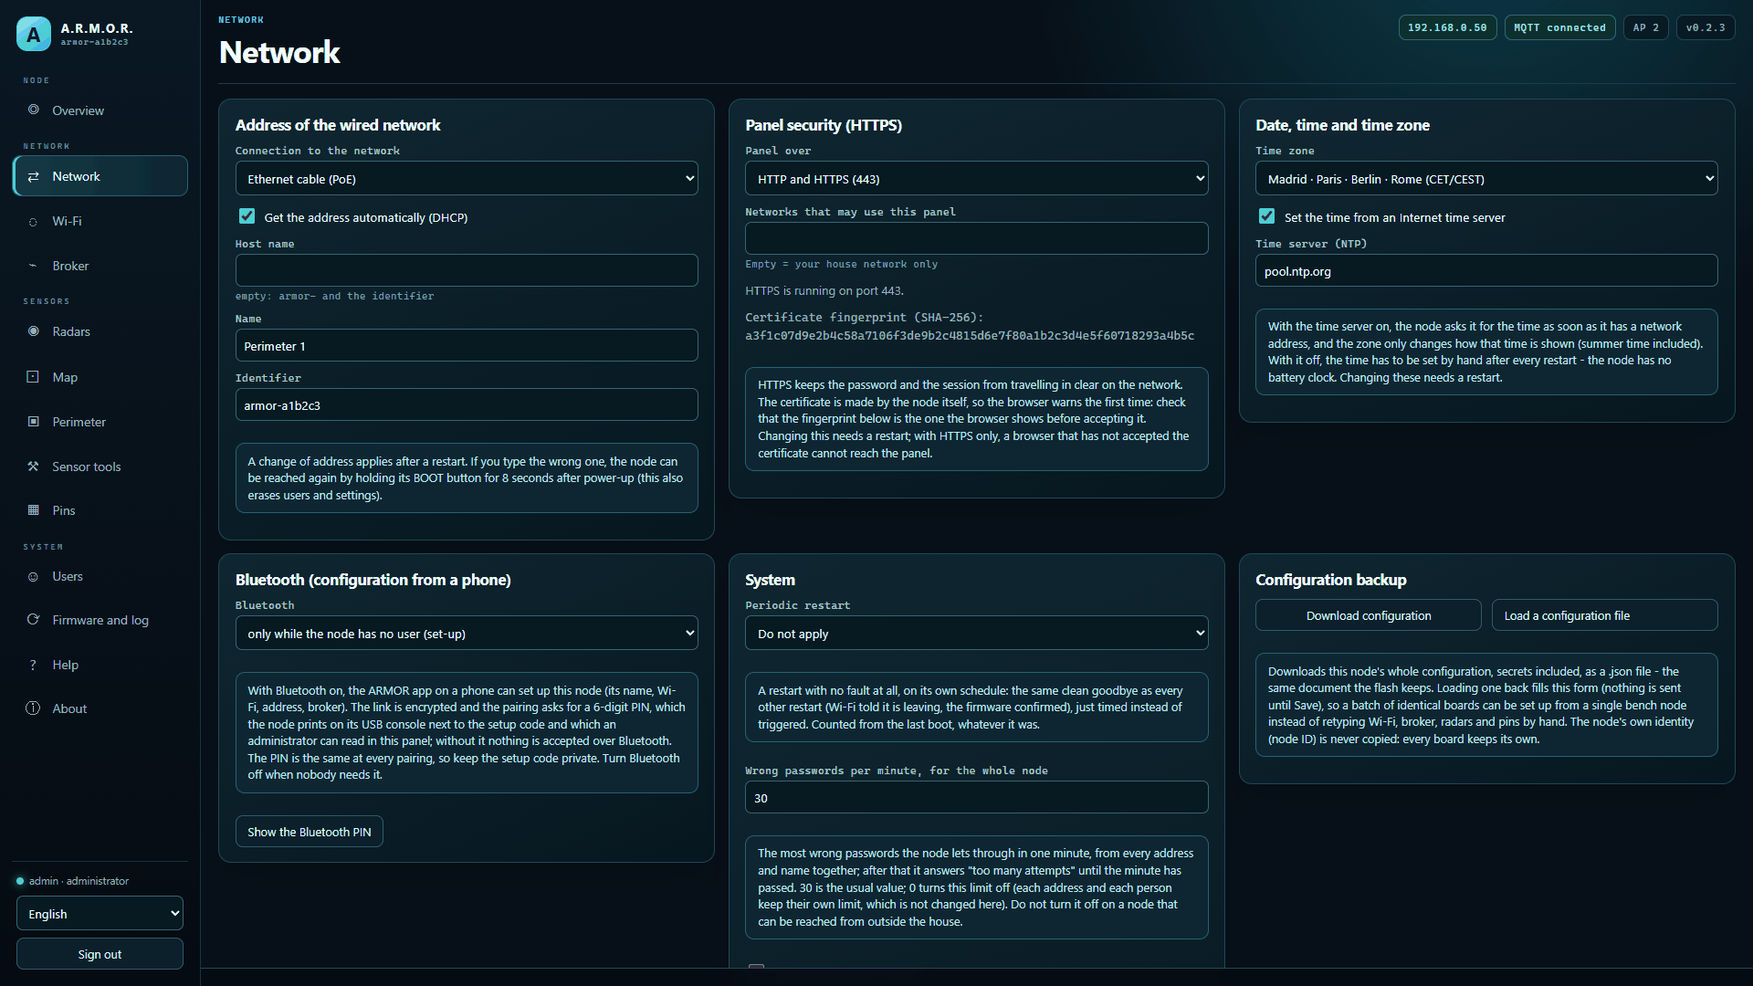
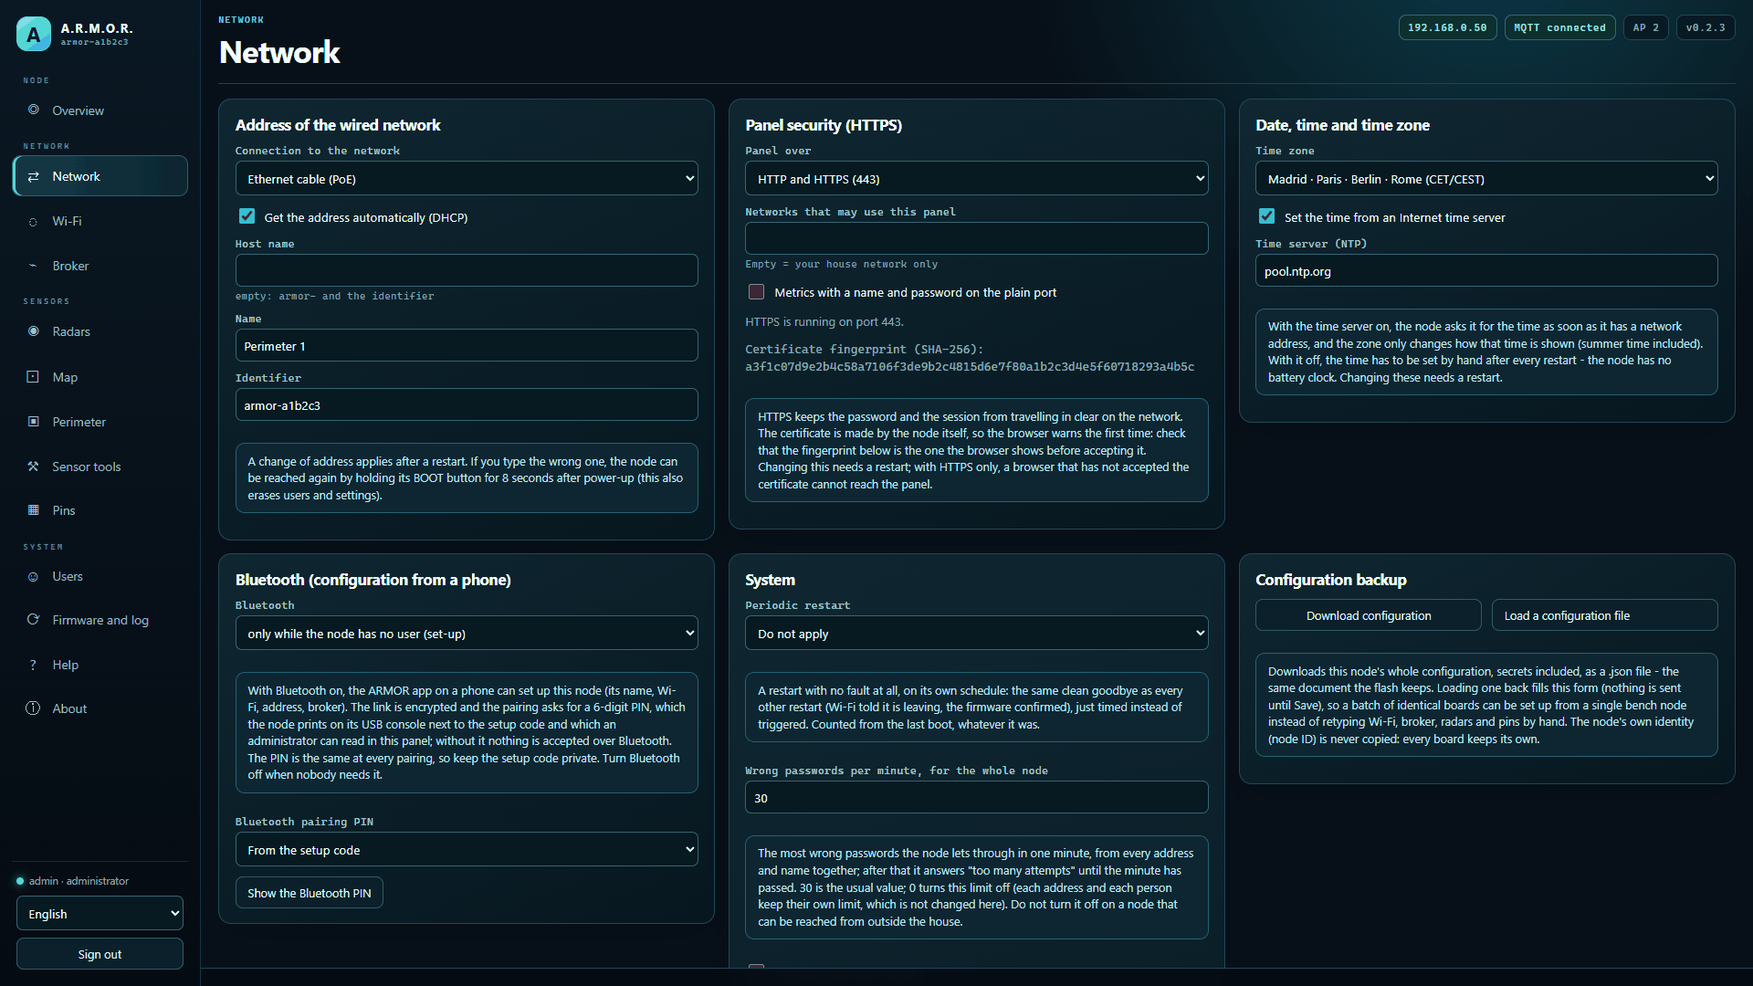
Release 0.8.1.4 (#48)
* Release 0.8.1.4

* Fix the web panel texts that stopped the panel script and retake the README screenshots

Changed region(s): [[0.4062, 0.275, 0.6875, 0.5194], [0.125, 0.825, 0.2188, 0.9167], [0.0, 0.0, 0.0312, 0.0306]]

diff --git a/panel/text.js b/panel/text.js
@@ -900,7 +900,7 @@ const L = {
   setupApPassword: ["Wi-Fi password of the setup network", "Contraseña Wi-Fi de la red de puesta en marcha", "WLAN-Passwort des Einrichtungsnetzes", "Mot de passe Wi-Fi du réseau de mise en service", "Password Wi-Fi della rete di messa in servizio", "セットアップネットワークの Wi-Fi パスワード", "设置网络的 Wi-Fi 密码", "Palavra-passe Wi-Fi da rede de configuração"],
   tip_setupApPassword: ["Password (8 to 63 characters) of the access point a node opens while it has no user. Empty: the setup code on the label is the password, as always. With its own password, the label's code no longer opens that Wi-Fi.", "Contraseña (de 8 a 63 caracteres) del punto de acceso que el nodo abre mientras no tiene usuario. Vacía: la contraseña es el código de la etiqueta, como siempre. Con una propia, el código de la etiqueta ya no abre esa Wi-Fi.", "Passwort (8 bis 63 Zeichen) des Zugangspunkts, den der Knoten öffnet, solange er keinen Benutzer hat. Leer: das Passwort ist wie immer der Einrichtungscode auf dem Etikett. Mit einem eigenen Passwort öffnet der Code des Etiketts dieses WLAN nicht mehr.", "Mot de passe (8 à 63 caractères) du point d'accès que le nœud ouvre tant qu'il n'a pas d'utilisateur. Vide : le mot de passe est le code de l'étiquette, comme toujours. Avec un mot de passe propre, le code de l'étiquette n'ouvre plus ce Wi-Fi.", "Password (da 8 a 63 caratteri) del punto di accesso che il nodo apre finché non ha utenti. Vuota: la password è il codice dell'etichetta, come sempre. Con una password propria, il codice dell'etichetta non apre più quel Wi-Fi.", "ユーザーがいない間にノードが開くアクセスポイントのパスワード(8~63文字)。空欄の場合は従来どおりラベルのセットアップコードがパスワードです。独自のパスワードを設定すると、ラベルのコードではこの Wi-Fi に接続できなくなります。", "节点在没有用户时开启的接入点的密码(8 到 63 个字符)。留空:密码仍是标签上的设置码。设置了专用密码后,标签上的码将不再能连接该 Wi-Fi。", "Palavra-passe (8 a 63 carateres) do ponto de acesso que o nó abre enquanto não tem utilizador. Vazia: a palavra-passe é o código da etiqueta, como sempre. Com uma própria, o código da etiqueta deixa de abrir essa Wi-Fi."],
   otaInvalidate: ["Erase a refused firmware", "Borrar un firmware rechazado", "Abgelehnte Firmware löschen", "Effacer un firmware refusé", "Cancellare un firmware rifiutato", "拒否されたファームウェアを消去する", "清除被拒绝的固件", "Apagar um firmware recusado"],
-  tip_otaInvalidate: ["When a downloaded firmware is refused (wrong project or version, not newer, bad signature), the slot it was written to is erased so it cannot be started by a later fault. The running firmware is never touched. Off by default.", "Cuando se rechaza un firmware descargado (proyecto o versión equivocados, no más nuevo, firma mala), se borra la ranura donde se escribió para que un fallo posterior no pueda arrancarlo. El firmware en marcha no se toca nunca. Desactivado por defecto.", "Wird eine heruntergeladene Firmware abgelehnt (falsches Projekt oder falsche Version, nicht neuer, ungültige Signatur), wird der Slot, in den sie geschrieben wurde, gelöscht, damit ein späterer Fehler sie nicht starten kann. Die laufende Firmware wird nie angetastet. Standardmäßig aus.", "Quand un firmware téléchargé est refusé (mauvais projet ou version, pas plus récent, signature invalide), l'emplacement où il a été écrit est effacé pour qu'une panne ultérieure ne puisse pas le démarrer. Le firmware en cours n'est jamais touché. Désactivé par défaut.", "Quando un firmware scaricato viene rifiutato (progetto o versione sbagliati, non più recente, firma non valida), lo slot in cui è stato scritto viene cancellato, così un guasto successivo non può avviarlo. Il firmware in esecuzione non viene mai toccato. Disattivato per impostazione predefinita.", "ダウンロードしたファームウェアが拒否された場合(プロジェクトやバージョンの不一致、より新しくない、署名が不正)、書き込まれたスロットを消去し、後の障害で起動されないようにします。実行中のファームウェアには一切触れません。既定ではオフ。", "下载的固件被拒绝时(项目或版本不符、不是更新的版本、签名无效),会清除写入它的槽位,避免之后的故障把它启动。正在运行的固件绝不会被改动。默认关闭。", "Quando um firmware transferido é recusado (projeto ou versão errados, não mais recente, assinatura inválida), o slot onde foi escrito é apagado para que uma falha posterior não o possa arrancar. O firmware em execução nunca é tocado. Desligado por predefinição."]
+  tip_otaInvalidate: ["When a downloaded firmware is refused (wrong project or version, not newer, bad signature), the slot it was written to is erased so it cannot be started by a later fault. The running firmware is never touched. Off by default.", "Cuando se rechaza un firmware descargado (proyecto o versión equivocados, no más nuevo, firma mala), se borra la ranura donde se escribió para que un fallo posterior no pueda arrancarlo. El firmware en marcha no se toca nunca. Desactivado por defecto.", "Wird eine heruntergeladene Firmware abgelehnt (falsches Projekt oder falsche Version, nicht neuer, ungültige Signatur), wird der Slot, in den sie geschrieben wurde, gelöscht, damit ein späterer Fehler sie nicht starten kann. Die laufende Firmware wird nie angetastet. Standardmäßig aus.", "Quand un firmware téléchargé est refusé (mauvais projet ou version, pas plus récent, signature invalide), l'emplacement où il a été écrit est effacé pour qu'une panne ultérieure ne puisse pas le démarrer. Le firmware en cours n'est jamais touché. Désactivé par défaut.", "Quando un firmware scaricato viene rifiutato (progetto o versione sbagliati, non più recente, firma non valida), lo slot in cui è stato scritto viene cancellato, così un guasto successivo non può avviarlo. Il firmware in esecuzione non viene mai toccato. Disattivato per impostazione predefinita.", "ダウンロードしたファームウェアが拒否された場合(プロジェクトやバージョンの不一致、より新しくない、署名が不正)、書き込まれたスロットを消去し、後の障害で起動されないようにします。実行中のファームウェアには一切触れません。既定ではオフ。", "下载的固件被拒绝时(项目或版本不符、不是更新的版本、签名无效),会清除写入它的槽位,避免之后的故障把它启动。正在运行的固件绝不会被改动。默认关闭。", "Quando um firmware transferido é recusado (projeto ou versão errados, não mais recente, assinatura inválida), o slot onde foi escrito é apagado para que uma falha posterior não o possa arrancar. O firmware em execução nunca é tocado. Desligado por predefinição."],
   controlRequireSig: ["Require signed orders to the node", "Exigir órdenes firmadas al nodo", "Signierte Befehle an den Knoten verlangen", "Exiger des ordres signés pour le nœud", "Richiedere ordini firmati al nodo", "ノードへの命令に署名を必須にする", "要求发给节点的命令带签名", "Exigir ordens assinadas ao nó"],
   tip_controlRequireSig: ["The orders of the server to the node itself (restart, pause, standby...) are read only when the server signed them with the key of this node. With no valid key every order is refused. Off by default.", "Las órdenes del servidor al propio nodo (reiniciar, pausar, espera...) solo se leen si el servidor las firmó con la clave de este nodo. Sin una clave válida se rechazan todas. Desactivado por defecto.", "Befehle des Servers an den Knoten selbst (Neustart, Pause, Standby ...) werden nur gelesen, wenn der Server sie mit dem Schlüssel dieses Knotens signiert hat. Ohne gültigen Schlüssel wird jeder Befehl abgelehnt. Standardmäßig aus.", "Les ordres du serveur au nœud lui-même (redémarrage, pause, veille...) ne sont lus que si le serveur les a signés avec la clé de ce nœud. Sans clé valide, tout ordre est refusé. Désactivé par défaut.", "Gli ordini del server al nodo stesso (riavvio, pausa, standby...) vengono letti solo se il server li ha firmati con la chiave di questo nodo. Senza una chiave valida ogni ordine viene rifiutato. Disattivato per impostazione predefinita.", "サーバーからノード自身への命令(再起動、一時停止、スタンバイなど)は、サーバーがこのノードの鍵で署名した場合にのみ受け付けます。有効な鍵がないとすべての命令が拒否されます。既定ではオフ。", "服务器发给节点本身的命令(重启、暂停、待机等)只有在服务器用本节点的密钥签名后才会被读取。没有有效密钥时,所有命令都会被拒绝。默认关闭。", "As ordens do servidor para o próprio nó (reiniciar, pausar, espera...) só são lidas se o servidor as assinou com a chave deste nó. Sem uma chave válida todas as ordens são recusadas. Desligado por predefinição."],
   commandKey: ["Key for signed orders", "Clave de órdenes firmadas", "Schlüssel für signierte Befehle", "Clé des ordres signés", "Chiave degli ordini firmati", "署名付き命令の鍵", "签名命令的密钥", "Chave das ordens assinadas"],

diff --git a/CHANGELOG.md b/CHANGELOG.md
@@ -4,10 +4,12 @@ All notable changes to this project are documented here.
 
 ## [Unreleased]
 
+## [0.8.1.4] - Signed node orders, safe outputs while paused, HTTPS metrics, fixed pairing PIN and a fault matrix
+
+- **The web panel of the node loads again:** a comma missing in the texts of the panel (`panel/text.js`) after the explanation of the erase of a refused firmware stopped the whole page script, so the panel showed nothing; the line is fixed.
 - **The structure generator can write a figure read from the code:** `tools/make_structure.py` resolves `{{fact:NAME|LAST}}` in the descriptions of `docs/structure.json` where the documentation tools are next to the repository, and writes LAST (the figure it had when last written) everywhere else, so a repository still builds on its own.
 - **The README no longer types the number of checks the host programs count:** the Tests row of At a glance, the Tests badge and the build sentence give the host test programs and the Python checks that `ctest` registers, read from the code; the total of checks changes with every test and was only ever a typed number.
 - **The Security and Updates lights of the Project status table follow the evidence ceiling:** they cannot be above what the Hardware row may show for the evidence of the manifest, and Security is never green; the rows that were higher are now orange in the eight READMEs, and `tools/status_lights.py` is the new shared copy.
-
 - **The file tree of the README is drawn from the structure source:** the text tree in the eight READMEs is generated from `docs/structure.json`, the file that also draws the picture, so the two cannot disagree.
 - **The README trees list `firmware_base.lock` and the architecture picture is redrawn with rounded coordinates:** the file that records the version of the shared base this copy was synced from appears in the text tree of the eight READMEs, and the legend positions of the picture carry no floating-point noise.
 - **The repository structure picture lists `firmware_base.lock`:** the file that records the version of the shared base this copy was synced from now appears in the picture, in the eight languages.
@@ -15,19 +17,12 @@ All notable changes to this project are documented here.
 - **The manifest says simulator evidence until the record of a test on real hardware is kept:** it said bench with no record, so the Hardware and Integration lights go down to orange in the eight READMEs (a person raises them again with the record).
 - **The README lists the settings that sign the orders to the node:** `security.control_require_sig` and `security.command_key` in the configuration table, in the eight languages.
 - **The orders to the node can be required signed:** the new settings `security.control_require_sig` (off by default) and `security.command_key` (the 64 hexadecimal digits of the node key of the server, a secret kept and sealed like the passwords and never shown by the panel) make the node read an order of the server to itself (restart, pause, standby...) only when it carries a good signature made with that key; with the option on and no valid key every such order is refused. Both are in the web panel in eight languages. Off, the node behaves as it always did.
-
 - **A refused firmware can be erased from its slot:** the setting `security.ota_invalidate_rejected` (off by default, shown in the web panel in eight languages) erases the first sector of the slot a downloaded image was written to when that image is refused after it was complete (another project, another version than the release, not newer, a bad signature, or no way to boot it) and when a copy of the running slot does not end well, so a later fault cannot start it. The slot that runs is never touched.
-
 - **The Bluetooth pairing PIN can be a fixed one:** `ble.passkey_mode` now also takes `fixed`, with the six digits in `ble.passkey_pin` (kept and sealed like the node's passwords, never shown by the panel; the mode needs the PIN). The default is as before: the PIN derived from the setup code.
-
 - **The set-up access point can have a Wi-Fi password of its own:** the new setting `ap.setup_password` (8 to 63 characters, a secret, shown in the web panel) replaces the setup code of the label as the password of the access point a node without users opens. Empty by default, so nodes already installed keep their password; with it set, the code of the label no longer opens that Wi-Fi.
-
 - **The signature code is the shared one:** `core/command_sig.hpp` and `core/hmac_sha256.hpp` come from the shared firmware base, ready for signed orders.
-
 - **The simulation bench keeps a matrix of the faults it played:** the run writes a report of which fault of the bus passed, failed or was not run, prints it as one line of a bus-by-fault matrix in the summary of the run, and keeps both files as an artifact for two weeks. The matrix says what the simulated bus covered; it says nothing about the real equipment.
-
 - **A scraper of the metrics can be made to use HTTPS, and a wrong password on the metrics counts against the person:** the new setting `web.metrics_basic_over_http` (on by default, as before; in the panel next to the networks that may use it) turns the name and password of `/metrics` off on the plain port, where only the cookie of a session then works; a wrong password sent with Basic is now also counted in the limit of that person, like a wrong sign-in.
-
 - **A paused node, or one in standby, takes its outputs to their safe state and ignores orders for them:** the safe state of each output (`off`, `on` or `keep`) is applied when the node is paused or put in standby (also when it boots into standby), orders from the broker and from the panel are refused until it works again (the panel answers `node_paused`), and `toggle` is no longer accepted from the broker, because a repeated or replayed message would flip the output each time (the panel still has its Toggle button).
 - **The copy of the running firmware to the other slot waits for an install or a manual write that is on:** `start_copy()` takes the same lock as `install()` and the manual writes (not only the flag of its own job) and gives it back when it ends, so two writers can no longer open the same slot.
 - **The order channel of the node can check a signature before it reads anything:** `node_control::Options` has an optional `authorize` hook that sees each order that arrives on `armor/control/...` and drops it, before it can arm anything, when the node says no. A node that does not set it behaves as before.

diff --git a/README_jpn.md b/README_jpn.md
@@ -22,7 +22,7 @@
   <img src="https://img.shields.io/badge/Language-C%2B%2B17-00599c.svg" alt="Language">
   <img src="https://img.shields.io/badge/Target-ESP32--S3-e7352c.svg" alt="Target">
   <img src="https://img.shields.io/badge/Tests-24%20host%20programs-2ea44f.svg" alt="Tests">
-  <img src="https://img.shields.io/badge/Version-0.8.1.3-0f6cbd.svg" alt="Version">
+  <img src="https://img.shields.io/badge/Version-0.8.1.4-0f6cbd.svg" alt="Version">
   <img src="https://img.shields.io/badge/Maturity-established-2EA44F.svg" alt="Maturity">
 </p>
 
@@ -36,7 +36,7 @@
 
 | | |
 |---|---|
-| バージョン | `0.8.1.3` |
+| バージョン | `0.8.1.4` |
 | 成熟度 | 確立 |
 | 役割 | ESP32-S3 用レーダーフィールドノード（ファミリー：Field Nodes、親：ARMOR-COMMON） |
 | 技術 | C++17, ESP-IDF 5.5.5, ESP32-S3 |

diff --git a/README_spa.md b/README_spa.md
@@ -22,7 +22,7 @@
   <img src="https://img.shields.io/badge/Language-C%2B%2B17-00599c.svg" alt="Lenguaje">
   <img src="https://img.shields.io/badge/Target-ESP32--S3-e7352c.svg" alt="Target">
   <img src="https://img.shields.io/badge/Tests-24%20host%20programs-2ea44f.svg" alt="Pruebas">
-  <img src="https://img.shields.io/badge/Version-0.8.1.3-0f6cbd.svg" alt="Versión">
+  <img src="https://img.shields.io/badge/Version-0.8.1.4-0f6cbd.svg" alt="Versión">
   <img src="https://img.shields.io/badge/Maturity-established-2EA44F.svg" alt="Madurez">
 </p>
 
@@ -36,7 +36,7 @@
 
 | | |
 |---|---|
-| Versión | `0.8.1.3` |
+| Versión | `0.8.1.4` |
 | Madurez | Establecido |
 | Función | Nodo de campo radar para ESP32-S3 (familia: Field Nodes, padre: ARMOR-COMMON) |
 | Tecnología | C++17, ESP-IDF 5.5.5, ESP32-S3 |

diff --git a/README_ita.md b/README_ita.md
@@ -22,7 +22,7 @@
   <img src="https://img.shields.io/badge/Language-C%2B%2B17-00599c.svg" alt="Linguaggio">
   <img src="https://img.shields.io/badge/Target-ESP32--S3-e7352c.svg" alt="Target">
   <img src="https://img.shields.io/badge/Tests-24%20host%20programs-2ea44f.svg" alt="Test">
-  <img src="https://img.shields.io/badge/Version-0.8.1.3-0f6cbd.svg" alt="Versione">
+  <img src="https://img.shields.io/badge/Version-0.8.1.4-0f6cbd.svg" alt="Versione">
   <img src="https://img.shields.io/badge/Maturity-established-2EA44F.svg" alt="Maturità">
 </p>
 
@@ -36,7 +36,7 @@
 
 | | |
 |---|---|
-| Versione | `0.8.1.3` |
+| Versione | `0.8.1.4` |
 | Maturità | Consolidato |
 | Ruolo | Nodo di campo radar per ESP32-S3 (famiglia: Field Nodes, padre: ARMOR-COMMON) |
 | Tecnologia | C++17, ESP-IDF 5.5.5, ESP32-S3 |

diff --git a/README_fra.md b/README_fra.md
@@ -22,7 +22,7 @@
   <img src="https://img.shields.io/badge/Language-C%2B%2B17-00599c.svg" alt="Langage">
   <img src="https://img.shields.io/badge/Target-ESP32--S3-e7352c.svg" alt="Target">
   <img src="https://img.shields.io/badge/Tests-24%20host%20programs-2ea44f.svg" alt="Tests">
-  <img src="https://img.shields.io/badge/Version-0.8.1.3-0f6cbd.svg" alt="Version">
+  <img src="https://img.shields.io/badge/Version-0.8.1.4-0f6cbd.svg" alt="Version">
   <img src="https://img.shields.io/badge/Maturity-established-2EA44F.svg" alt="Maturité">
 </p>
 
@@ -36,7 +36,7 @@
 
 | | |
 |---|---|
-| Version | `0.8.1.3` |
+| Version | `0.8.1.4` |
 | Maturité | Établi |
 | Rôle | Nœud de terrain radar pour ESP32-S3 (famille : Field Nodes, parent : ARMOR-COMMON) |
 | Technologie | C++17, ESP-IDF 5.5.5, ESP32-S3 |

diff --git a/README_por.md b/README_por.md
@@ -22,7 +22,7 @@
   <img src="https://img.shields.io/badge/Language-C%2B%2B17-00599c.svg" alt="Language">
   <img src="https://img.shields.io/badge/Target-ESP32--S3-e7352c.svg" alt="Target">
   <img src="https://img.shields.io/badge/Tests-24%20host%20programs-2ea44f.svg" alt="Tests">
-  <img src="https://img.shields.io/badge/Version-0.8.1.3-0f6cbd.svg" alt="Version">
+  <img src="https://img.shields.io/badge/Version-0.8.1.4-0f6cbd.svg" alt="Version">
   <img src="https://img.shields.io/badge/Maturity-established-2EA44F.svg" alt="Maturity">
 </p>
 
@@ -36,7 +36,7 @@
 
 | | |
 |---|---|
-| Versão | `0.8.1.3` |
+| Versão | `0.8.1.4` |
 | Maturidade | Estabelecido |
 | Função | Nó de campo radar para ESP32-S3 (família: Field Nodes, pai: ARMOR-COMMON) |
 | Tecnologia | C++17, ESP-IDF 5.5.5, ESP32-S3 |

diff --git a/README_deu.md b/README_deu.md
@@ -22,7 +22,7 @@
   <img src="https://img.shields.io/badge/Language-C%2B%2B17-00599c.svg" alt="Sprache">
   <img src="https://img.shields.io/badge/Target-ESP32--S3-e7352c.svg" alt="Target">
   <img src="https://img.shields.io/badge/Tests-24%20host%20programs-2ea44f.svg" alt="Tests">
-  <img src="https://img.shields.io/badge/Version-0.8.1.3-0f6cbd.svg" alt="Version">
+  <img src="https://img.shields.io/badge/Version-0.8.1.4-0f6cbd.svg" alt="Version">
   <img src="https://img.shields.io/badge/Maturity-established-2EA44F.svg" alt="Reifegrad">
 </p>
 
@@ -36,7 +36,7 @@
 
 | | |
 |---|---|
-| Version | `0.8.1.3` |
+| Version | `0.8.1.4` |
 | Reifegrad | Etabliert |
 | Rolle | Radar-Feldknoten für ESP32-S3 (Familie: Field Nodes, übergeordnet: ARMOR-COMMON) |
 | Technik | C++17, ESP-IDF 5.5.5, ESP32-S3 |

diff --git a/README_zho.md b/README_zho.md
@@ -22,7 +22,7 @@
   <img src="https://img.shields.io/badge/Language-C%2B%2B17-00599c.svg" alt="Language">
   <img src="https://img.shields.io/badge/Target-ESP32--S3-e7352c.svg" alt="Target">
   <img src="https://img.shields.io/badge/Tests-24%20host%20programs-2ea44f.svg" alt="Tests">
-  <img src="https://img.shields.io/badge/Version-0.8.1.3-0f6cbd.svg" alt="Version">
+  <img src="https://img.shields.io/badge/Version-0.8.1.4-0f6cbd.svg" alt="Version">
   <img src="https://img.shields.io/badge/Maturity-established-2EA44F.svg" alt="Maturity">
 </p>
 
@@ -36,7 +36,7 @@
 
 | | |
 |---|---|
-| 版本 | `0.8.1.3` |
+| 版本 | `0.8.1.4` |
 | 成熟度 | 成熟 |
 | 角色 | ESP32-S3 雷达现场节点（家族：Field Nodes，上级：ARMOR-COMMON） |
 | 技术栈 | C++17, ESP-IDF 5.5.5, ESP32-S3 |

diff --git a/README.md b/README.md
@@ -22,7 +22,7 @@
   <img src="https://img.shields.io/badge/Language-C%2B%2B17-00599c.svg" alt="Language">
   <img src="https://img.shields.io/badge/Target-ESP32--S3-e7352c.svg" alt="Target">
   <img src="https://img.shields.io/badge/Tests-24%20host%20programs-2ea44f.svg" alt="Tests">
-  <img src="https://img.shields.io/badge/Version-0.8.1.3-0f6cbd.svg" alt="Version">
+  <img src="https://img.shields.io/badge/Version-0.8.1.4-0f6cbd.svg" alt="Version">
   <img src="https://img.shields.io/badge/Maturity-established-2EA44F.svg" alt="Maturity">
 </p>
 
@@ -36,7 +36,7 @@
 
 | | |
 |---|---|
-| Version | `0.8.1.3` |
+| Version | `0.8.1.4` |
 | Maturity | Established |
 | Role | Radar field node for ESP32-S3 (family: Field Nodes, parent: ARMOR-COMMON) |
 | Stack | C++17, ESP-IDF 5.5.5, ESP32-S3 |
